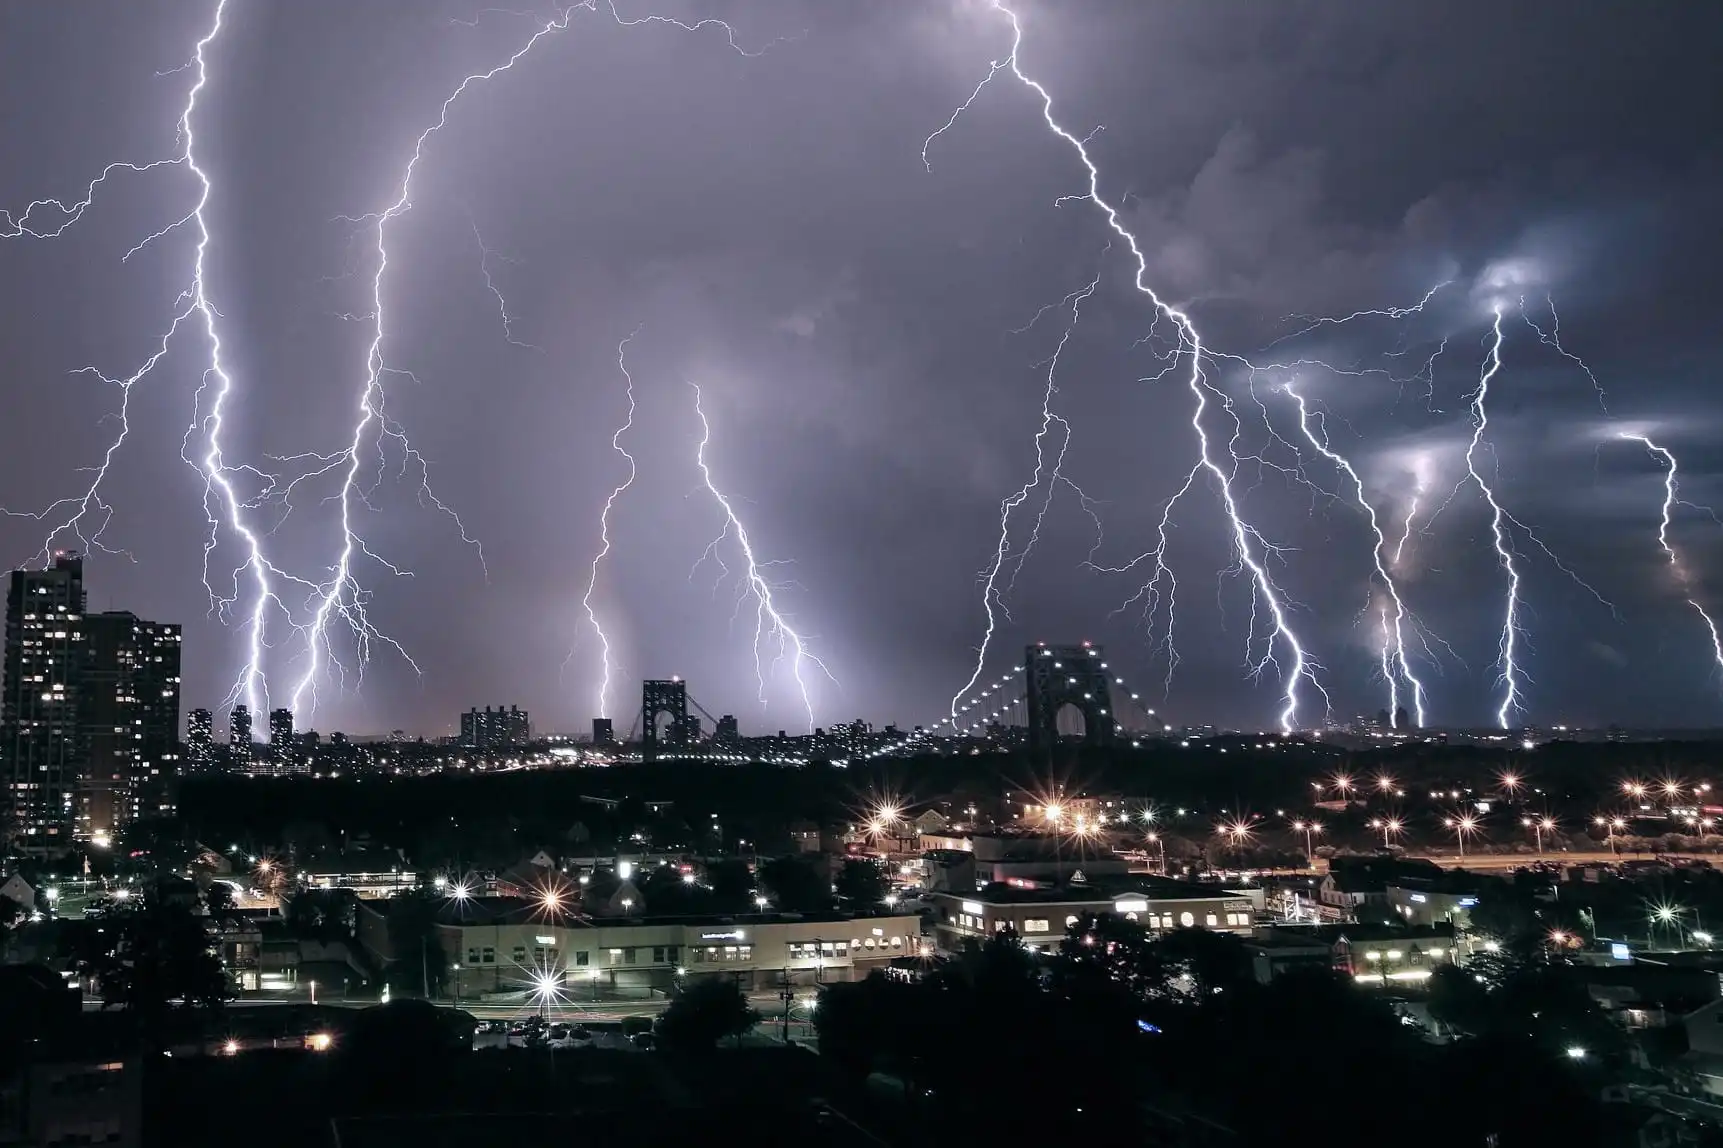
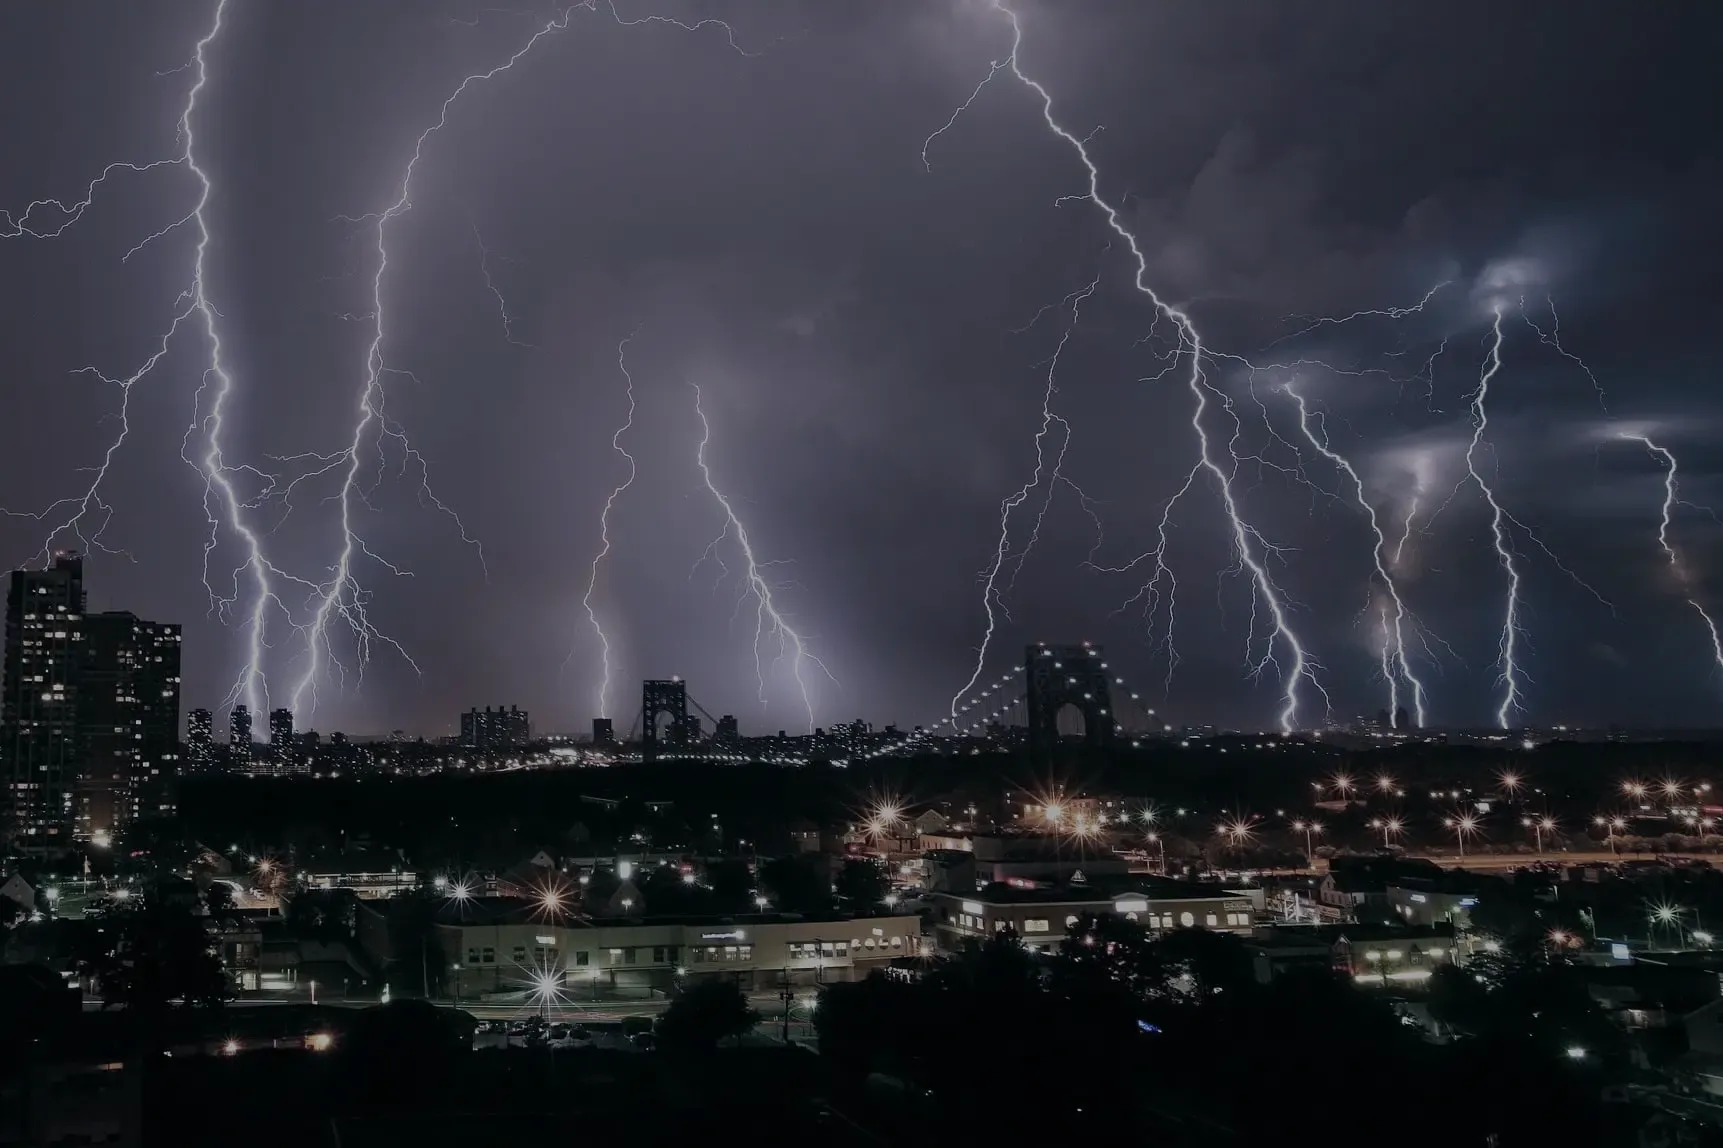
Bg Squash + Map Border
-Squashed down background images to improve readability
-Added a border to the map so it no longer "disappers"
-Changed submit button styles

diff --git a/src/Forecast.css b/src/Forecast.css
@@ -30,9 +30,12 @@ input {
 }
 
 input {
-  background-color: #ffa500;
+  background-color: forestgreen;
+  background-image: -webkit-gradient(linear, left top, right bottom, from(forestgreen), to(darkgreen));
+  background-image: linear-gradient(to bottom right, forestgreen, darkgreen);
   border: 2px solid black;
   border-radius: 5px;
+  padding: 5px 15px;
   cursor: pointer;
 }
 
@@ -189,11 +192,7 @@ tr:last-child td {
   height: 35vh;
   width: 100%;
   margin: 10px auto 30px auto;
-}
-
-#map input {
-  margin-bottom: 10px;
-  padding: 5px;
+  border: 5px solid white;
 }
 
 /* Media Queries */

diff --git a/src/Forecast.scss b/src/Forecast.scss
@@ -31,9 +31,11 @@ input {
   font-size: calc(10px + 0.8vw);
 }
 input {
-  background-color: #ffa500;
+  background-color: forestgreen;
+  background-image: linear-gradient(to bottom right, forestgreen, darkgreen);
   border: 2px solid black;
   border-radius: 5px;
+  padding: 5px 15px;
   cursor: pointer;
 }
 
@@ -173,11 +175,7 @@ tr:last-child td {
   height: 35vh;
   width: 100%;
   margin: 10px auto 30px auto;
-
-  input {
-    margin-bottom: 10px;
-    padding: 5px;
-  }
+  border: 5px solid white;
 }
 
 /* Media Queries */

diff --git a/src/Forecast.js b/src/Forecast.js
@@ -123,3 +123,4 @@ class Forecast extends React.Component {
 }
 
 export default Forecast;
+//TODO: Squash background images using your image editor
